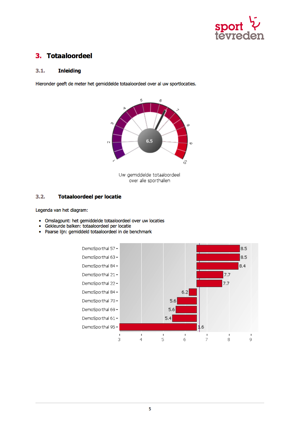
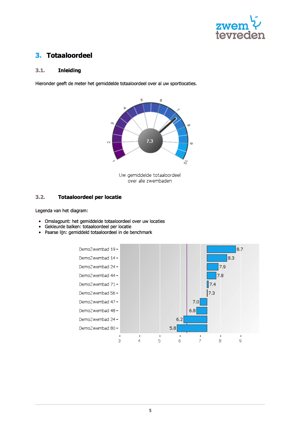
Zwemtevreden > Sporttevreden
Alle veranderingen aangebracht om het hele zaakje van sporttevreden
naar zwemtevreden te veranderen.

diff --git a/index.html b/index.html
@@ -7,7 +7,7 @@
 <head>
   <meta charset="utf-8">
   <meta http-equiv="X-UA-Compatible" content="IE=edge,chrome=1">
-  <title>Sporttevreden</title>
+  <title>Zwemtevreden</title>
   <meta name="description" content="">
   <meta name="viewport" content="width=device-width">
   <link rel="stylesheet" href="css/bootstrap.css">
@@ -46,15 +46,15 @@
       </div>
       <div class="col-xs-3 jumboText hidden-xs hidden-sm hidden-md">
         <p>
-          Een Sporttevreden onderzoek biedt verhelderend inzicht in wat uw klanten beweegt, zodat u de beste sportaccommodatie kunt zijn en blijven. Nog een testje.
+          Een Zwemtevreden onderzoek biedt verhelderend inzicht in wat jouw klanten beweegt, zodat je het beste zwembad kunt zijn en blijven.
         </p>
-        <tagline>Sporttevreden. Zorgeloos onderzoek</tagline>
+        <tagline>Zwemtevreden. Zorgeloos onderzoek</tagline>
       </div>
       <div class="col-xs-12 jumboText visible-xs visible-sm visible-md">
         <p>
-          Een Sporttevreden onderzoek biedt verhelderend inzicht in wat uw klanten beweegt, zodat u de beste sportaccommodatie kunt zijn en blijven. Nog een testje.
+          Een Zwemtevreden onderzoek biedt verhelderend inzicht in wat jouw klanten beweegt, zodat je het beste zwembad kunt zijn en blijven.
         </p>
-        <tagline>Sporttevreden. Zorgeloos onderzoek</tagline>
+        <tagline>Zwemtevreden. Zorgeloos onderzoek</tagline>
       </div>
     </div>
   </div>
@@ -80,26 +80,26 @@
   
   <!-- MAIN CONTENT -->  
   <div class="divider">
-    
+
   </div>
-    <div class="container one textAreas" id="block_1">
-      <div class="row">      
-        <p class="jumboHeader hidden-xs">Weten wat uw klanten beweegt</p>
-        <div class="divider"></div>
-        <div class="col-sm-5 col-sm-offset-1 linkBlock">
-          <h2>Zaalsport tevredenheidsonderzoek</h2>
-          <p>Meet de tevredenheid van de klanten van jouw sporthal. Stel zelf vragen samen of laat ons helpen met het maken van de vragenlijst.</p>
-          <button type="button" class="btn btn-success btn-lg hidden-xs"><a target="_blank" href="http://vragenlijst.sporttevreden.nl/demovragenlijst_sportkto">Probeer een demo sportvragenlijst!</a></button>
-          <button type="button" class="btn btn-success btn-sm visible-xs"><a target="_blank" href="http://vragenlijst.sporttevreden.nl/demovragenlijst_sportkto">Probeer een demo sportvragenlijst!</a></button>
-        </div>
-        <div class="col-sm-5  linkBlock">
-          <h2 style="color:#2EB6ED">Zwemtevreden tevredenheidsonderzoek</h2>
-          <p>Meet de tevredenheid van de klanten van jouw zwembad. Ook voor Zwemtevreden kunnen wij helpen met het samenstellen van de vragenlijst. </p>
-          <button type="button" class="btn btn-success btn-lg hidden-xs"><a target="_blank" href="http://vragenlijst.sporttevreden.nl/demovragenlijst_sportkto">Ga naar Zwemtevreden!</a> </button>
-          <button type="button" class="btn btn-success btn-sm visible-xs"><a target="_blank" href="http://vragenlijst.sporttevreden.nl/demovragenlijst_sportkto">Ga naar Zwemtevreden!</a> </button>
-        </div>
+  <div class="container one textAreas" id="block_1">
+    <div class="row">      
+      <p class="jumboHeader hidden-xs">Weten wat uw klanten beweegt</p>
+      <div class="divider"></div>
+      <div class="col-sm-5 col-sm-offset-1 linkBlock">
+        <h2>Klantentevredenheidsonderzoek</h2>
+        <p>Meet de tevredenheid van de klanten van jouw zwembad. Stel zelf vragen samen of laat ons helpen met het maken van de vragenlijst.</p>
+        <button type="button" class="btn btn-success btn-lg hidden-xs"><a target="_blank" href="http://vragenlijst.zwemtevreden.nl/demovragenlijst_zwemkto">Probeer een demo sportvragenlijst!</a></button>
+        <button type="button" class="btn btn-success btn-sm visible-xs"><a target="_blank" href="http://vragenlijst.zwemtevreden.nl/demovragenlijst_zwemkto">Demo klantenvragenlijst</a></button>
+      </div>
+      <div class="col-sm-5  linkBlock">
+        <h2 style="color:#2EB6ED">Medewerkertevredenheidsonderzoek</h2>
+        <p>Meet de tevredenheid van de medewerkers van jouw zwembad. Ook hier kunnen wij helpen met het bedenken van vragen. </p>
+        <button type="button" class="btn btn-success btn-lg hidden-xs"><a target="_blank" href="http://vragenlijst.zwemtevreden.nl/demovragenlijst_zwemmto">Demo medewerkervragenlijst</a> </button>
+        <button type="button" class="btn btn-success btn-sm visible-xs"><a target="_blank" href="http://vragenlijst.zwemtevreden.nl/demovragenlijst_zwemmto">Ga naar Zwemtevreden!</a> </button>
       </div>
     </div>
+  </div>
   <div class="divider"></div>
   <div class="container two textAreas" id="block_2">
     <div class="row">
@@ -212,7 +212,7 @@
                     <td>100,-</td>
                   </tr>
                   <tr>
-                    <td>OVERIG</td>
+                    <td><strong>OVERIG</strong></td>
                     <td>-</td>
                     <td></td>
                     <td></td>
@@ -250,13 +250,13 @@
             <div class="col-sm-10">
               <h2>Algemene opmerkingen</h2>
               <ul>
-                <li>Licentie voor het gebruik van het Sporttevreden-systeem is inbegrepen. De database wordt beheerd door The Brighthouse.</li>
+                <li>Licentie voor het gebruik van het Zwemtevreden-systeem is inbegrepen. De database wordt beheerd door The Brighthouse.</li>
                 <li>Het basistarief bevat een bundel van 200 completes. Voor overschrijding van de bundel wordt een meerprijs in rekening gebracht (zie opties).</li>
                 <li>Telefonische en digitale helpdesk 9u - 17u op werkdagen zijn inbegrepen gedurende de looptijd van een onderzoek.</li>
-                <li>Op de producten van Sporttevreden zijn de algemene voorwaarden van The Brighthouse B.V. van toepassing.</li>
+                <li>Op de producten van Zwemtevreden zijn de algemene voorwaarden van The Brighthouse B.V. van toepassing.</li>
                 <li>The Brighthouse heeft het recht de data van het onderzoek anoniem te gebruiken ten behoeve van benchmarkdoeleinden.</li>
                 <li>Prijzen zijn in euro's exclusief 21% BTW.</li>
-                <li>Prijzen zijn geldig tot eind 2013.</li>
+                <li>Prijzen zijn geldig tot eind 2014.</li>
               </ul>
             </div>
           </div>
@@ -267,17 +267,17 @@
             <div class="col-sm-4">
               <h2>Locatierapportage</h2>
               <p>Bekijk hier een voorbeeldrapportage</p>
-              <p><a target="_blank" href="http://www.thebrighthouse.nl/uploads/zwemtevreden/Demo%20locatierapport%20Zaalsport.pdf"><img class="thumb" src="../sporttevreden/assets/img/rapportvb.png"alt=""></a></p>
+              <p><a target="_blank" href="http://www.thebrighthouse.nl/uploads/zwemtevreden/Demo%20locatierapportage%20Zwemtevreden%20.pdf"><img class="thumb" src="../zwemtevreden/assets/img/rapportvb.png"alt=""></a></p>
             </div>
             <div class="col-sm-4">
               <h2>Managementrapportage</h2>
               <p>Bekijk hier een voorbeeldrapportage</p>
-              <p><a target="_blank" href="http://www.thebrighthouse.nl/uploads/zwemtevreden/Demo%20managementrapport%20Zaalsport.pdf"><img class="thumb" src="../sporttevreden/assets/img/rapportman.png"alt=""></a></p>
+              <p><a target="_blank" href="http://www.thebrighthouse.nl/uploads/zwemtevreden/Demo%20managementrapport%20Zwemtevreden.pdf"><img class="thumb" src="../zwemtevreden/assets/img/rapportman.png"alt=""></a></p>
             </div>
             <div class="col-sm-4">
               <h2>Hoofdrapportage</h2>
               <p>Bekijk hier een voorbeeldrapportage</p>
-              <p><a target="_blank" href="http://www.thebrighthouse.nl/uploads/sporttevreden/Demo%20hoofdkantoorrapport%20Zaalsport.pdf"><img class="thumb" src="../sporttevreden/assets/img/rapporthfd.png"alt=""></a></p>
+              <p><a target="_blank" href="http://www.thebrighthouse.nl/uploads/zwemtevreden/Demo%20hoofdkantoorrapport%20Zwemtevreden.pdf"><img class="thumb" src="../zwemtevreden/assets/img/rapporthfd.png"alt=""></a></p>
             </div>
 
           </div>
@@ -286,65 +286,61 @@
         <div class="container four textAreas" id="block_4">
           <div class="row">
             <div class="col-sm-4">
-              <h2>Sporttevreden</h2>
-              <p>Alle onderzoeken van Sporttevreden zijn ontwikkeld in samenwerking met de sector. Sinds de start in 2006 hebben vele sporthallen de voordelen ervaren.</p>
-              <p><img src="../sporttevreden/assets/img/lsp.png"alt=""></p>
+              <h2>Zwemtevreden</h2>
+              <p>Alle onderzoeken van Zwemtevreden zijn ontwikkeld in samenwerking met de sector. Sinds de start in 2006 hebben vele zwembaden de voordelen ervaren.</p>
+              <p><img src="../zwemtevreden/assets/img/lgz.png"alt=""></p>
             </div>
             <div class="col-sm-4">
               <h2>The Brighthouse</h2>
               <p>The Brighthouse is specialist in online onderzoek. Zij verzamelen en transformeren meningen en feiten in verhelderende rapportages die data in perspectief plaatsen. Bruikbare inzichten waarmee de prestaties continu kunnen worden verbeterd.</p>
-              <p><img src="../sporttevreden/assets/img/lgb.png"alt=""></p>
+              <p><img src="../zwemtevreden/assets/img/lgb.png"alt=""></p>
             </div>
             <div class="col-sm-4">
-              <h2>Zwemtevreden</h2>
-              <p>Naast de tevredenheid over sporthallen biedt The Brighthouse ook andere sportonderzoeken aan. Zo bestaat er Zwemtevreden en Fitnesstevreden.</p>
-              <p><img src="../sporttevreden/assets/img/lgz.png"alt=""></p>
+              <h2>Sporttevreden</h2>
+              <p>Naast de tevredenheid over zwembaden biedt The Brighthouse ook andere sportonderzoeken aan. Zo bestaat er Sporttevreden en Fitnesstevreden.</p>
+              <p><img src="../sporttevreden/assets/img/lsp.png"alt=""></p>
             </div>
           </div>
         </div>
         <div class="divider"></div>
         <div class="container five textAreas" id="block_5">
           <div class="row col-sm-4">
-            <h2>Sporthallen</h2>
-            <ul><li>Cultuurcampus Vleuterweide</li><li>De Dreef</li><li>Europahal</li><li>De Paperclip</li><li>Lunetten</li><li>Nieuw Welgelegen</li><li>Hoograven</li><li>Sportcampus</li><li>Galgenwaard</li><li>De Weide Wereld</li><li>Drieburcht</li><li>Kennemer Sportcenter</li><li>Provincie Noord-Holland Hal</li><li>Spaarnehal</li><li>Sporthal Icoon</li><li>Sporthal Zielhorst</li><li>Sportzaal de Dissel</li><li>Sporthal Juliana van Stolberg</li><li>Sporthal Midland</li><li>Sporthal Nieuwland</li><li>Sporthal Schuilenburg</li><li>Sportzaal de Bieshaar</li><li>Sporthal Strijland</li><li>Sporthal Watergoor</li><li>Sporthal de Kuil</li><li>Sporthal de Toekomst</li></ul>
+            <h2>Zwembaden</h2>
+            <ul><li><a href="http://www.hetmarnix.nl/" target="blank">Het Marnix</a></li><li><a href="http://www.hoornsevaart.nl/" target="blank">Hoornse Vaart</a></li><li><a href="http://www.zwembaddehout.nl/" target="blank">De Hout</a></li><li><a href="http://www.dewisselslag.nl/" target="blank">De Wisselslag</a></li><li><a href="http://www.utrecht.nl/smartsite.dws?id=242168" target="blank">Fletiomare</a></li><li><a href="http://www.utrecht.nl/smartsite.dws?id=242171" target="blank">Den Hommel</a></li><li><a href="http://www.utrecht.nl/smartsite.dws?id=242169" target="blank">De Kwakel</a></li><li><a href="http://www.sportbedrijfoisterwijk.nl/publicaties/Sportbedrijf-Channel/54065/Overdekt-zwembad-de-Leye" target="blank">De Leye</a></li><li><a href="http://www.sportintilburg.nl/Zwemmen/Recreatiebad_Stappegoor" target="blank">Stappegoor</a></li><li><a href="http://www.sportintilburg.nl/Zwemmen/Sportcentrum_Reeshof" target="blank">De Reeshof</a></li><li><a href="http://www.sportintilburg.nl/Zwemmen/De_Drieburcht" target="blank">Drieburcht</a></li><li><a href="http://www.lentebad.nl/" target="blank">Lentebad</a></li><li><a href="http://www.optisport.nl/picamare/" target="blank">Pica Mare</a></li><li><a href="http://www.sportenwelzijn.nl/index.php?pagina_id=54" target="blank">De Fakkel</a></li><li><a href="http://www.zwembaddijnselburg.nl/" target="blank">Dijnselburg</a></li><li><a href="http://www.desteur.nl/" target="blank">Sportfondsen Kampen</a></li><li><a href="http://www.sportbedrijfoosterhout.nl/zwembaden/zwemvoorziening-arkendonk" target="blank">Arkendonk</a></li><li><a href="http://www.sportbedrijfleiden.nl/accommodaties/zwembaden/vijf_meibad/" target="blank">Het Vijf Meibad</a></li><li><a href="http://www.laco.eu/strijen-apollo.html" target="blank">Laco sportcentrum Apollo</a></li><li><a href="http://www.dewisselslag.nl/" target="blank">Nieuw Steyl</a></li><li><a href="http://www.optisport.nl/sonsbeeck/" target="blank">Sonsbeeck</a></li><li><a href="http://www.noord.amsterdam.nl/3598/floraparkbad" target="blank">Floraparkbad</a></li><li><a href="ww.optisport.nl/wisselaar/" target="blank">Zwembad de Wisselaar</a></li><li><a href="http://www.zwembaddijnselburg.nl/" target="blank">'t Vlasmeer</a></li><li><a href="http://www.optisport.nl/horsten/" target="blank">De Horsten</a></li><li><a href="http://www.optisport.nl/wolfslaar/" target="blank">De Wolfslaar</a></li><li><a href="http://www.optisport.nl/aquarijn/" target="blank">Aquarijn</a></li></ul></div><div class="column"></div><div class="column koepel">
           </div>
           <div class="row col-sm-4">
-            <h2>Gemeenten</h2>
-            <ul><li><a href="http://www.utrecht.nl/" target="blank">Gemeente Utrecht</a></li>
-            </div>
-            <div class="row col-sm-4">
-              <h2>Koepel</h2>
-              <ul><li><a href="http://www.sro.nl/" target="blank">SRO</a></li></ul>
-            </div>
+            <h2>Gemeenten</h2><ul><li><a href="http://www.utrecht.nl/" target="blank">Gemeente Utrecht</a></li><li><a href="http://www.amsterdam.nl/" target="blank">Gemeente Amsterdam</a></li><li><a href="http://www.sportloketalkmaar.nl/" target="blank">Sportbedrijf Alkmaar</a></li><li><a href="http://www.sportintilburg.nl/" target="blank">Gemeente Tilburg</a></li><li><a href="http://www.venlo.nl/vrije_tijd/sport/Pages/default.aspx" target="blank">Gemeente Venlo</a></li><li><a href="http://www.leiden.nl/gemeente" target="blank">Gemeente Leiden</a></li><li><a href="http://www.sportbedrijfoosterhout.nl/" target="blank">Sportbedrijf Oosterhout</a></li><li><a href="http://www.sportbedrijfoisterwijk.nl/" target="blank">Sportbedrijf Oisterwijk</a></li></ul>
           </div>
+          <div class="row col-sm-4">
+            <h2>Koepel</h2><ul><li><a href="http://www.sro.nl/" target="blank">SRO</a></li><li><a href="http://www.laco.eu" target="blank">Laco</a></li><li><a href="http://www.sportfondsen.nl/" target="blank">Sportfondsen</a></li></ul>
+          </div>
+        </div>
 
-          <!-- FOOTER -->
-          <div style="height:100px"></div>  
-          <div class="row navbar-fixed-bottom hidden-xs">
-            <div class="col-sm-12 footer">
-              <div class="col-sm-4 col-lg-2">
-                <li>Neem contact met ons op:</li>
-                <li>e-mail:  <a href="mailto:info@thebrighthouse.nl">info@thebrighthouse.nl</a></li>
-              </div>
-              <div class="col-sm-6">
-                Sporttevreden is een initiatief van <a href="">The Brighthouse.</a><br>
-                <li>tel: 020 624 90 76</li>
-              </div>
+        <!-- FOOTER -->
+        <div style="height:100px"></div>  
+        <div class="row navbar-fixed-bottom hidden-xs">
+          <div class="col-sm-12 footer">
+            <div class="col-sm-4 col-lg-2">
+              <li>e-mail:  <a href="mailto:info@thebrighthouse.nl">info@thebrighthouse.nl</a></li>
+            </div>
+            <div class="col-sm-6">
+              Zwemtevreden is een initiatief van <a href="">The Brighthouse.</a><br>
+              <li>tel: 020 624 90 76</li>
             </div>
           </div>
-          <div class="row hidden-md hidden-sm hidden-lg footer-xs">
-            <div class="col-sm-12">
-              <div class="col-sm-4 col-lg-2">
-                <li>Neem contact met ons op:</li>
-                <li>e-mail:  <a href="mailto:info@thebrighthouse.nl">info@thebrighthouse.nl</a></li>
-              </div>
-              <div class="col-sm-6">
-                <li>Sporttevreden is een initiatief van <a href="">The Brighthouse.</a><br></li>
-                <li>tel: 020 624 90 76</li>
-              </div>
+        </div>
+        <div class="row hidden-md hidden-sm hidden-lg footer-xs">
+          <div class="col-sm-12">
+            <div class="col-sm-4 col-lg-2">
+              <li>e-mail:  <a href="mailto:info@thebrighthouse.nl">info@thebrighthouse.nl</a></li>
+            </div>
+            <div class="col-sm-6">
+              <li>Zwemtevreden is een initiatief van <a href="">The Brighthouse.</a><br></li>
+              <li>tel: 020 624 90 76</li>
             </div>
           </div>
-          <!-- ================================================================================================================== -->
+        </div>
+        <!-- ================================================================================================================== -->
 
         <!--[if lt IE 7]>
             <p class="chromeframe">You are using an <strong>outdated</strong> browser. Please <a href="http://browsehappy.com/">upgrade your browser</a> or <a href="http://www.google.com/chromeframe/?redirect=true">activate Google Chrome Frame</a> to improve your experience.</p>

diff --git a/css/styles.css b/css/styles.css
@@ -26,7 +26,7 @@ h1,
 h2,
 h3,
 tagline {
-  color: #D11642;
+  color: #00B4F1;
   word-break: break-word;
   font-weight: 700;
   font-family: 'Rokkitt', sans-serif;
@@ -66,7 +66,7 @@ li.text {
   margin-left: -40px;
   padding-left: 10px;
   border-left: 2px solid gray;
-  color: #D11642;
+  color: #00B4F1;
   list-style: none;
   font-size: 1.2em;
 }
@@ -142,7 +142,7 @@ tagline {
 }
 .textAreas h3 {
   margin-bottom: .4em;
-  color: #D11642;
+  color: #00B4F1;
   font-size: 1.4em;
 }
 .footer {
@@ -155,12 +155,12 @@ tagline {
   background: #e9e9e9;
 }
 .footer a {
-  color: #D11642;
+  color: #00B4F1;
   text-decoration: none !important;
 }
 .footer a:hover,
 .textAreas a:hover {
-  color: #d11642;
+  color: #00b4f1;
 }
 .footer-xs {
   list-style: none;

diff --git a/LESS/styles.less b/LESS/styles.less
@@ -27,7 +27,7 @@ color:#000
 }
 
 h1,h2,h3,tagline {
-color:#D11642;
+color:#00B4F1;
 word-break:break-word;
 font-weight:700;
 font-family:'Rokkitt',sans-serif;
@@ -75,7 +75,7 @@ list-style:none
 margin-left:-40px;
 padding-left:10px;
 border-left:2px solid gray;
-color:#D11642;
+color:#00B4F1;
 list-style:none;
 font-size:1.2em
 }
@@ -167,7 +167,7 @@ font-size:1.2em
 
 .textAreas h3 {
 margin-bottom:.4em;
-color:#D11642;
+color:#00B4F1;
 font-size:1.4em
 }
 
@@ -182,12 +182,12 @@ background:#E9E9E9
 }
 
 .footer a {
-color:#D11642;
+color:#00B4F1;
 text-decoration:none!important
 }
 
 .footer a:hover,.textAreas a:hover {
-color:#D11642
+color:#00B4F1
 }
 
 .footer-xs {
